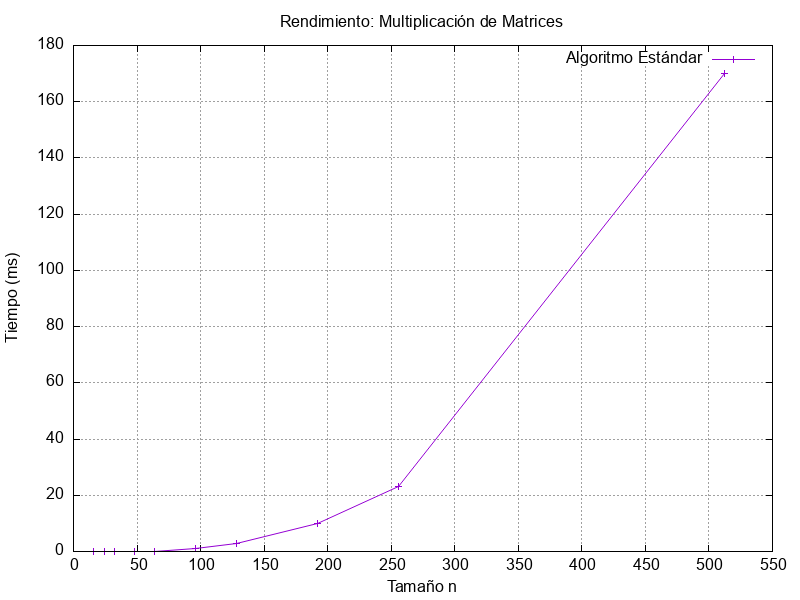
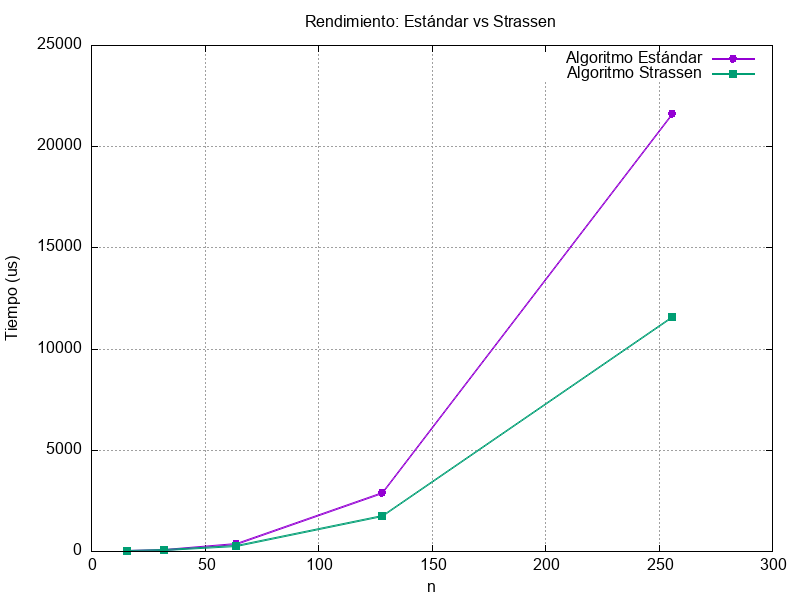
perf: optimizar el algoritmo Strassen mediante el uso de offsets
Sustituir el copiado de submatrices por desplazamientos lógicos para eliminar procesos redundantes. Lograr una reducción del tiempo de ejecución al 50% en matrices de 256x256 frente al método estándar.

diff --git a/src/main.cpp b/src/main.cpp
@@ -17,134 +17,101 @@ void llenarMatriz(Matrix &M, int n) {
     }
 }
 
-void multiplicacionEstandar(const Matrix &A, const Matrix &B, Matrix &C, int n) {
+void multiplicacionEstandar(const Matrix &A, int rA, int cA,
+                            const Matrix &B, int rB, int cB,
+                            Matrix &C, int rC, int cC, int n) {
     for (int i = 0; i < n; i++) {
         for (int j = 0; j < n; j++) {
-            C[i][j] = 0; 
+            double suma = 0;
             for (int k = 0; k < n; k++) {
-                C[i][j] += A[i][k] * B[k][j];
+                suma += A[rA + i][cA + k] * B[rB + k][cB + j];
             }
+            C[rC + i][cC + j] = suma;
         }
     }
 }
-
-//Funciones auxiliares para aritmetica de matrices 
-void sumar(const Matrix& A, const Matrix& B, Matrix& C, int n) {
+void sumar(const Matrix& A, int rA, int cA,
+           const Matrix& B, int rB, int cB,
+           Matrix& C, int n) {
     for (int i = 0; i < n; i++) {
         for (int j = 0; j < n; j++) {
-            C[i][j] = A[i][j] + B[i][j];
+            C[i][j] = A[rA + i][cA + j] + B[rB + i][cB + j];
         }
     }
 }
 
-void restar(const Matrix& A, const Matrix& B, Matrix& C, int n) {
+void restar(const Matrix& A, int rA, int cA,
+            const Matrix& B, int rB, int cB,
+            Matrix& C, int n) {
     for (int i = 0; i < n; i++) {
         for (int j = 0; j < n; j++) {
-            C[i][j] = A[i][j] - B[i][j];
-        }
-    }
-}
-
-//Funcion auxiliar para dividir la matriz A en 4 submatrices
-void dividir(const Matrix &A, Matrix &A11, Matrix &A12, Matrix &A21, Matrix &A22, int n) {
-    int k = n / 2;
-    for (int i = 0; i < k; i++) {
-        for (int j = 0; j < k; j++) {
-            A11[i][j] = A[i][j];
-            A12[i][j] = A[i][j + k];
-            A21[i][j] = A[i + k][j];
-            A22[i][j] = A[i + k][j + k];
+            C[i][j] = A[rA + i][cA + j] - B[rB + i][cB + j];
         }
     }
 }
 
 
-void unir(const Matrix &C11, const Matrix &C12, const Matrix &C21, const Matrix &C22, Matrix &C, int n) {
-    int k = n / 2;
-    for (int i = 0; i < k; i++) {
-        for (int j = 0; j < k; j++) {
-            C[i][j] = C11[i][j];
-            C[i][j + k] = C12[i][j];
-            C[i + k][j] = C21[i][j];
-            C[i + k][j + k] = C22[i][j];
-        }
-    }
-}
-
-void strassen(const Matrix &A, const Matrix &B, Matrix &C, int n) {
-    if (n < 32) {
-        multiplicacionEstandar(A, B, C, n);
+void strassen(const Matrix &A, int rA, int cA,
+              const Matrix &B, int rB, int cB,
+              Matrix &C, int rC, int cC, int n) {
+    
+    // Caso base:  umbral de 32 
+    if (n <= 32) {
+        multiplicacionEstandar(A, rA, cA, B, rB, cB, C, rC, cC, n);
         return;
     }
 
     int k = n / 2;
 
-    // Dividir
-    Matrix a(k, vector<double>(k)), b(k, vector<double>(k)), c(k, vector<double>(k)), d(k, vector<double>(k));
-    Matrix e(k, vector<double>(k)), f(k, vector<double>(k)), g(k, vector<double>(k)), h(k, vector<double>(k));
-
-    dividir(A, a, b, c, d, n); 
-    dividir(B, e, f, g, h, n);
-
-    // Conquistar
-    Matrix P1(k, vector<double>(k)), P2(k, vector<double>(k)), P3(k, vector<double>(k)), P4(k, vector<double>(k)),
-           P5(k, vector<double>(k)), P6(k, vector<double>(k)), P7(k, vector<double>(k));
+    Matrix P1(k, vector<double>(k)), P2(k, vector<double>(k)), P3(k, vector<double>(k)),
+           P4(k, vector<double>(k)), P5(k, vector<double>(k)), P6(k, vector<double>(k)),
+           P7(k, vector<double>(k));
     
     Matrix tA(k, vector<double>(k)), tB(k, vector<double>(k));
 
-    // P1 = a * (f - h)
-    restar(f, h, tB, k);
-    strassen(a, tB, P1, k);
+    // P1 = A11 * (B12 - B22)
+    restar(B, rB, cB + k, B, rB + k, cB + k, tB, k);
+    strassen(A, rA, cA, tB, 0, 0, P1, 0, 0, k);
 
-    // P2 = (a + b) * h
-    sumar(a, b, tA, k);
-    strassen(tA, h, P2, k);
+    // P2 = (A11 + A12) * B22
+    sumar(A, rA, cA, A, rA, cA + k, tA, k);
+    strassen(tA, 0, 0, B, rB + k, cB + k, P2, 0, 0, k);
 
-    // P3 = (c + d) * e
-    sumar(c, d, tA, k);
-    strassen(tA, e, P3, k);
+    // P3 = (A21 + A22) * B11
+    sumar(A, rA + k, cA, A, rA + k, cA + k, tA, k);
+    strassen(tA, 0, 0, B, rB, cB, P3, 0, 0, k);
 
-    // P4 = d * (g - e)
-    restar(g, e, tB, k);
-    strassen(d, tB, P4, k);
+    // P4 = A22 * (B21 - B11)
+    restar(B, rB + k, cB, B, rB, cB, tB, k);
+    strassen(A, rA + k, cA + k, tB, 0, 0, P4, 0, 0, k);
 
-    // P5 = (a + d) * (e + h)
-    sumar(a, d, tA, k);
-    sumar(e, h, tB, k);
-    strassen(tA, tB, P5, k);
+    // P5 = (A11 + A22) * (B11 + B22)
+    sumar(A, rA, cA, A, rA + k, cA + k, tA, k);
+    sumar(B, rB, cB, B, rB + k, cB + k, tB, k);
+    strassen(tA, 0, 0, tB, 0, 0, P5, 0, 0, k);
 
-    // P6 = (b - d) * (g + h)
-    restar(b, d, tA, k);
-    sumar(g, h, tB, k);
-    strassen(tA, tB, P6, k);
+    // P6 = (A12 - A22) * (B21 + B22)
+    restar(A, rA, cA + k, A, rA + k, cA + k, tA, k);
+    sumar(B, rB + k, cB, B, rB + k, cB + k, tB, k);
+    strassen(tA, 0, 0, tB, 0, 0, P6, 0, 0, k);
 
-    // P7 = (a - c) * (e + f)
-    restar(a, c, tA, k);
-    sumar(e, f, tB, k);
-    strassen(tA, tB, P7, k);
+    // P7 = (A11 - A21) * (B11 + B12)
+    restar(A, rA, cA, A, rA + k, cA, tA, k);
+    sumar(B, rB, cB, B, rB, cB + k, tB, k);
+    strassen(tA, 0, 0, tB, 0, 0, P7, 0, 0, k);
 
-    //Combinar
-    Matrix r(k, vector<double>(k)), s(k, vector<double>(k)), t(k, vector<double>(k)), u(k, vector<double>(k));
-    Matrix aux1(k, vector<double>(k)), aux2(k, vector<double>(k));
-
-    // r = P5 + P4 - P2 + P6
-    sumar(P5, P4, aux1, k);
-    restar(aux1, P2, aux2, k);
-    sumar(aux2, P6, r, k);
-
-    // s = P1 + P2
-    sumar(P1, P2, s, k);
-
-    // t = P3 + P4
-    sumar(P3, P4, t, k);
-
-    // u = P5 + P1 - P3 - P7
-    sumar(P5, P1, aux1, k);
-    restar(aux1, P3, aux2, k);
-    restar(aux2, P7, u, k);
-
-    unir(r, s, t, u, C, n);
+    // Combinar resultados directamente en C
+    for (int i = 0; i < k; i++) {
+        for (int j = 0; j < k; j++) {
+            C[rC + i][cC + j] = P5[i][j] + P4[i][j] - P2[i][j] + P6[i][j];         // C11
+            C[rC + i][cC + j + k] = P1[i][j] + P2[i][j];                         // C12
+            C[rC + k + i][cC + j] = P3[i][j] + P4[i][j];                         // C21
+            C[rC + k + i][cC + j + k] = P5[i][j] + P1[i][j] - P3[i][j] - P7[i][j]; // C22
+        }
+    }
 }
+
+
 
 int main() {
     srand(time(NULL));
@@ -154,7 +121,6 @@ int main() {
     
     archivo << "# n\tEstandar(us)\tStrassen(us)" << endl; 
 
-    // Solo potencias de 2 para Strassen 
     int nValores[] = {16, 32, 64, 128, 256};
 
     for (int n : nValores) {
@@ -170,7 +136,7 @@ int main() {
         long long sumaStd = 0;
         for (int r = 0; r < repeticiones; r++) {
             auto inicio = high_resolution_clock::now();
-            multiplicacionEstandar(A, B, C_std, n);
+            multiplicacionEstandar(A, 0, 0, B, 0, 0, C_std, 0, 0, n);
             auto fin = high_resolution_clock::now();
             sumaStd += duration_cast<microseconds>(fin - inicio).count();
         }
@@ -179,7 +145,7 @@ int main() {
         long long sumaStr = 0;
         for (int r = 0; r < repeticiones; r++) {
             auto inicio = high_resolution_clock::now();
-            strassen(A, B, C_str, n);
+            strassen(A, 0, 0, B, 0, 0, C_str, 0, 0, n);
             auto fin = high_resolution_clock::now();
             sumaStr += duration_cast<microseconds>(fin - inicio).count();
         }
